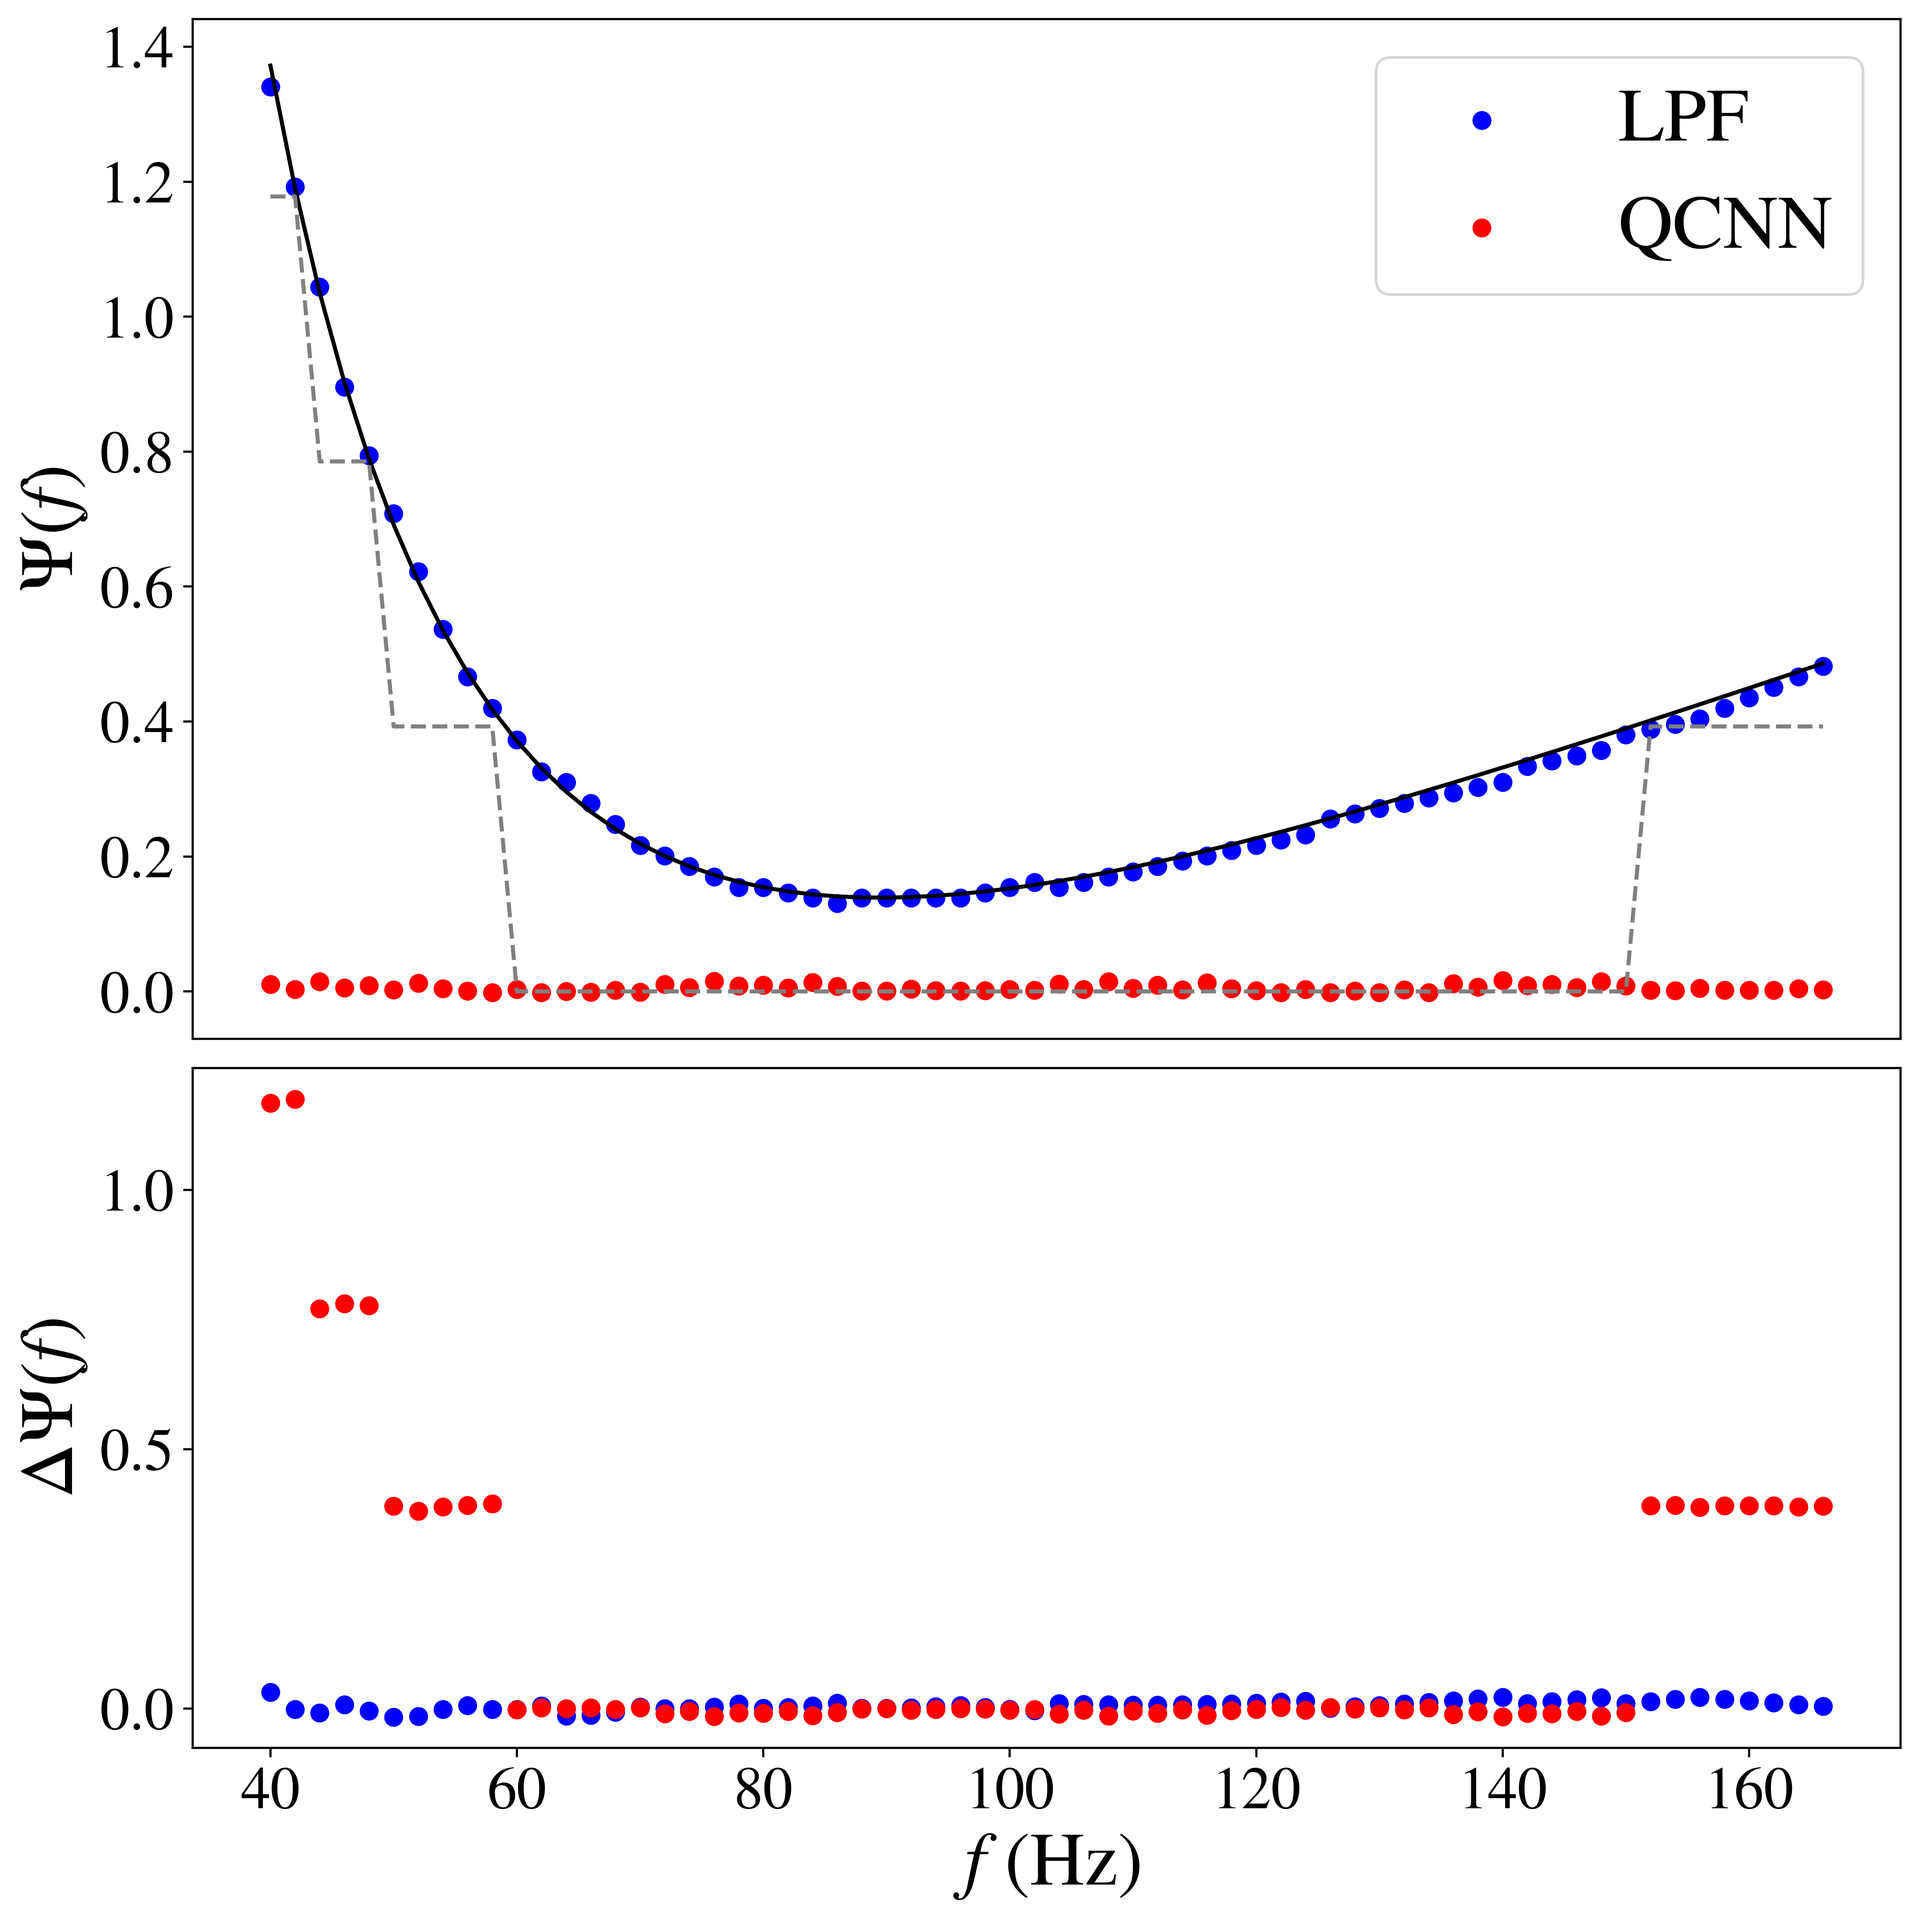
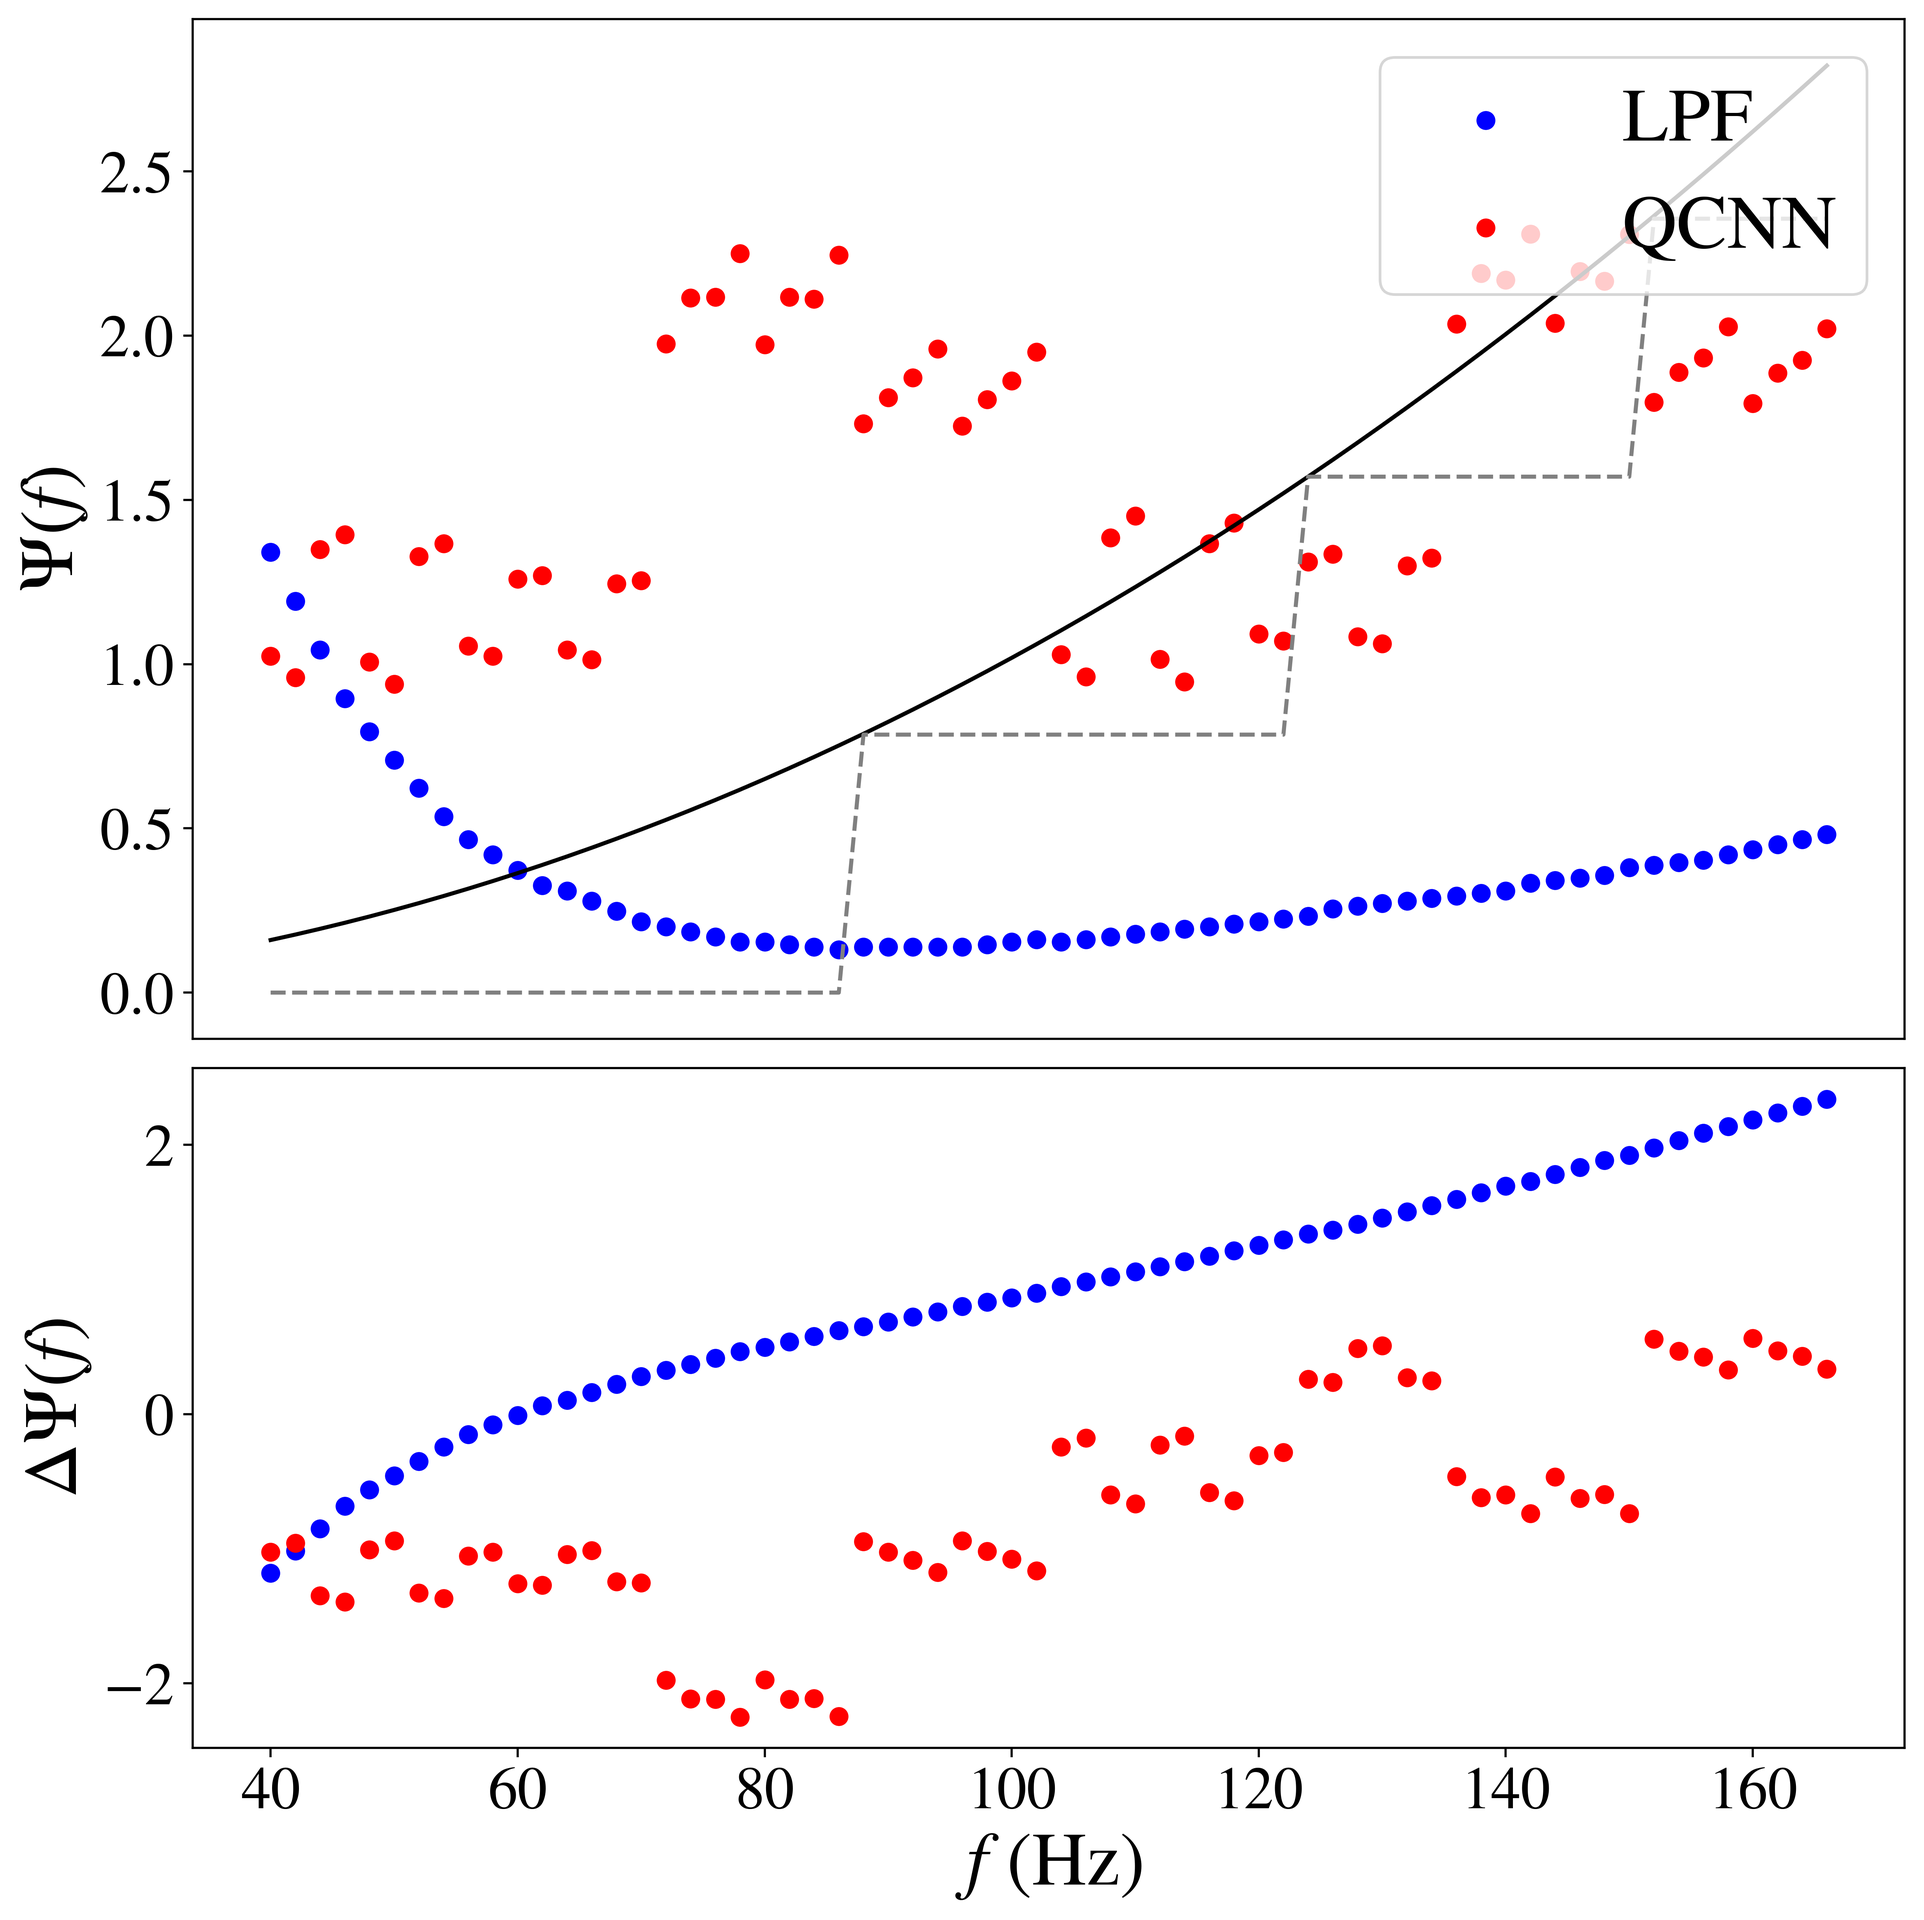
added phases to chil

diff --git a/encode.py b/encode.py
@@ -7,10 +7,10 @@ from tools import psi, bin_to_dec, dec_to_bin, full_encode
 L_phase = 6
 real_p = True 
 m = 3
-weights_phase = "outputs/weights_6_3(0)_6_600_psi_MM_(S)(PR)(r).npy" # weights_6_3(0)_6_600_psi_WILL_(S)(PR)(r)_3-4_1-1.npy
+weights_phase ="outputs/__TEMP100_weights_6_3(0)_6_600_psi_CHIL_quadratic(S)(PR)(r).npy"     #"outputs/weights_6_3(0)_6_600_psi_MM_(S)(PR)(r).npy" 
 
 repeat_params=None
-psi_mode="psi"
+psi_mode="quadratic"
 
 n = 6
 weights_ampl = "ampl_outputs/weights_6_3_600_x76_MM_40_168_zeros.npy" 
@@ -20,11 +20,11 @@ L_ampl =3
 # plot settings
 comp = True # compare to Hayes 2023  
 show = True # show plots
-pdf = True # save outputs as pdf 
+pdf = False # save outputs as pdf 
 delta_round =True #calculate difference from rounded version 
 
 no_A = True # don't produce amplitude plot 
-no_p = True # don't produce phase plot 
+no_p = False # don't produce phase plot 
 no_h = True # don't produce h plot
 
 # additional plots 
@@ -32,7 +32,7 @@ A_L_comp = False
 QGAN_comp = False
 phase_round_comp = False
 phase_L_comp = False
-phase_loss_comp = True 
+phase_loss_comp = False 
 phase_shift_comp = False 
 phase_RP_comp=False 
 
@@ -108,6 +108,7 @@ real_wave =np.real(state_vec)
 im_wave = np.imag(state_vec)
 
 # print info
+
 bar =np.array(list(np.load("outputs/bar"+weights_phase[15:],allow_pickle='TRUE').item().values()))
 mu = np.mean(bar) 
 sigma = np.std(bar)
@@ -123,7 +124,7 @@ print("Mu: ",f"{mu:.3e}")
 print("Sigma: ",f"{sigma:.3e}") 
 print("Omega: ",f"{omega:.3f}") 
 print("-----------------------------------")
- 
+
 #------------------------------------------------------------------------------
 if no_A==False:
     """

diff --git a/tools.py b/tools.py
@@ -687,10 +687,10 @@ def train_QNN(n,m,L, seed, shots, lr, b1, b2, epochs, func,func_str,loss_str,met
         state_vector = result.get_statevector()
         
         target_arr=np.asarray(state_vector)
-        target=Tensor(np.abs(target_arr))
+        target=Tensor(np.conjugate(target_arr))
 
         def criterion(output):
-            return  torch.abs(1. -torch.sum(torch.mul(output, target)))  # redefine to punish sign errors (moved abs outwards)
+            return  1. -torch.abs(torch.sum(torch.mul(output, target)))
         
     """
         def criterion(model):
@@ -775,7 +775,7 @@ def train_QNN(n,m,L, seed, shots, lr, b1, b2, epochs, func,func_str,loss_str,met
                 WIM_weights_tensor=Tensor(WIM_weights_arr)
                 loss =criterion(torch.mul(torch.sqrt(torch.abs(model(input))+1e-10), sign_tensor), torch.sqrt(target), WIM_weights_tensor)    # add small number in sqrt !
             elif loss_str=="CHIL":
-                loss = criterion(torch.sqrt(torch.abs(model(input))+1e-10))
+                loss = criterion(torch.polar(torch.sqrt(model(input)+1e-10),angle_tensor))
             else:
                 loss =criterion(torch.mul(torch.sqrt(torch.abs(model(input))+1e-10), sign_tensor), torch.sqrt(target))    # add small number in sqrt !
         else: 
